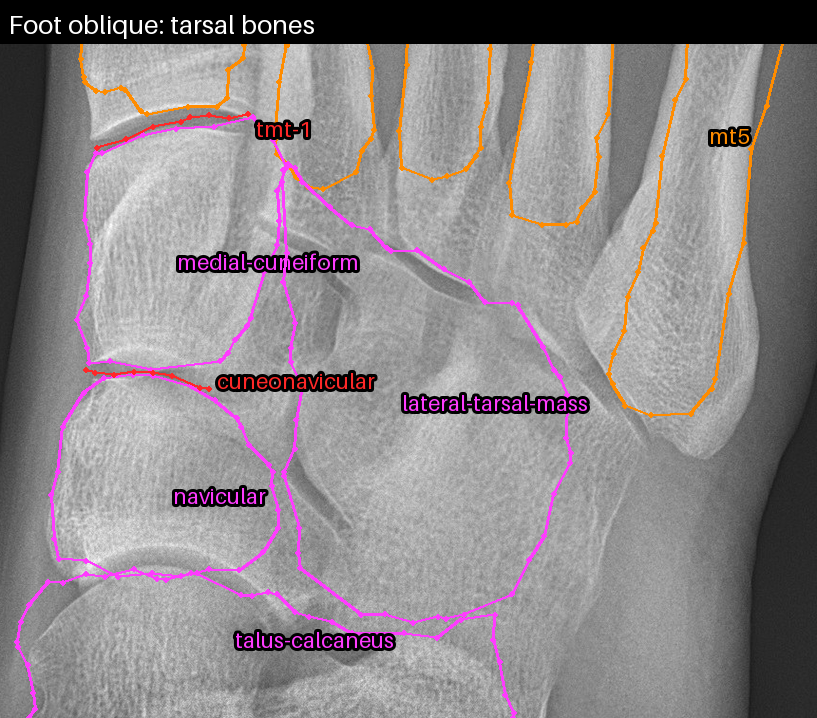
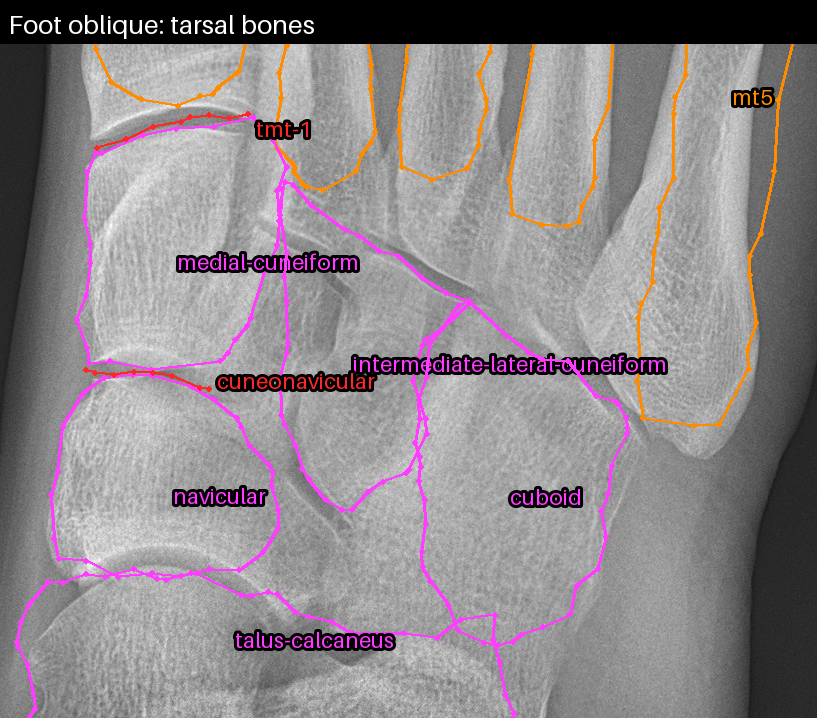
RAD-072 part 2b Phase A: apply owner review corrections (scaphoid, radiocarpal line, soft tissue, cuboid, MTP lines, metatarsal heads)
Claude-Session: https://claude.ai/code/session_0132w4GhgTRoshwqHdXpCECK

diff --git a/scripts/trace-outlines/trace_lib.py b/scripts/trace-outlines/trace_lib.py
@@ -411,7 +411,7 @@ def prior_polygon(s, n=40):
     return [tuple(prior[i]) for i in idx]
 
 
-def trace_path_gap(img, pts, g, step=10):
+def trace_path_gap(img, pts, g, step=10, smooth=0, eps=1.5):
     """Joint line along a curated polyline: on stations every ~`step` px, the darkest point of the profile along the local normal
     (±g px); the median-filtered offsets move the polyline's points. Returns the simplified path."""
     pts = densify(pts, step, False)
@@ -423,8 +423,33 @@ def trace_path_gap(img, pts, g, step=10):
     for p, nv in zip(pts, nrm):
         prof = sample(img, p[0] + rs * nv[0], p[1] + rs * nv[1])
         off.append(rs[int(np.argmin(prof))])
-    off = median_filter_circular(off, 1, closed=False)
-    return ints(rdp(pts + np.array(off)[:, None] * nrm, 1.5))
+    off = median_filter_circular(off, 1 if not smooth else 2, closed=False)
+    off = np.array(off, float)
+    for _ in range(smooth):  # optional extra smoothing of the offsets along the line (ends fixed)
+        if len(off) > 4:
+            off = np.concatenate([off[:1], np.convolve(off, np.ones(3) / 3, mode="same")[1:-1], off[-1:]])
+    return ints(rdp(pts + off[:, None] * nrm, eps))
+
+
+def trace_along(bone, a, b, offset, step=12, smooth=2):
+    """A joint line that follows the EDGE of an already traced bone between the points nearest to `a` and `b` (e.g. the radius's articular
+    surface): the bone's outline points between them, resampled every `step` px, smoothed, moved `offset` px along the normal toward the
+    side with the smaller y (the neighbouring bones). Always smooth and never off the bone edge."""
+    P = np.array(bone, float)
+    i0 = int(np.argmin(np.hypot(*(P - np.array(a, float)).T)))
+    i1 = int(np.argmin(np.hypot(*(P - np.array(b, float)).T)))
+    seg = P[min(i0, i1): max(i0, i1) + 1]
+    pts = densify(seg, step, False)
+    for _ in range(smooth):  # 3-point moving average along the line, ends fixed
+        if len(pts) > 3:
+            inner = (pts[:-2] + pts[1:-1] + pts[2:]) / 3
+            pts = np.vstack([pts[:1], inner, pts[-1:]])
+    tang = np.gradient(pts, axis=0)
+    tang /= np.hypot(*tang.T)[:, None] + 1e-9
+    nrm = np.stack([-tang[:, 1], tang[:, 0]], axis=1)
+    if nrm[:, 1].mean() > 0:
+        nrm = -nrm
+    return ints(rdp(pts + offset * nrm, 1.0))
 
 
 def axis_of(spec):
@@ -445,14 +470,14 @@ def trace_gap(img, p, q, u, g):
     return ints([p + f * (q - p) + r * u for f, r in zip(np.linspace(0, 1, 7), out)])
 
 
-def trace_joint(img, distal, proximal, centre=None, half=None):
+def trace_joint(img, distal, proximal, centre=None, half=None, g=18):
     a1, b1, u1 = axis_of(distal)
     a2, b2, u2 = axis_of(proximal)
     u = (u1 + u2) / np.hypot(*(u1 + u2))
     v = np.array([-u[1], u[0]])
     m = (b1 + a2) / 2 if centre is None else np.array(centre, float)
     w = 0.8 * min(distal["he"], proximal["he"]) if half is None else half
-    return trace_gap(img, m - w * v, m + w * v, -u, 18)
+    return trace_gap(img, m - w * v, m + w * v, -u, g)
 
 
 def otsu(vals, lo, hi, bins=128):
@@ -496,7 +521,7 @@ def bone_guard(shape, outlines, margin):
     return np.asarray(im) > 0
 
 
-def soft_tissue(img, thr, guard, max_runs=1):
+def soft_tissue(img, thr, guard, max_runs=1, smooth=0):
     small = gauss(img, 3.0)[::2, ::2]
     mask = (small > thr) | guard
     # largest 4-connected region (iterative flood fill)
@@ -573,7 +598,28 @@ def soft_tissue(img, thr, guard, max_runs=1):
     runs.sort(key=len, reverse=True)
     # the longest run, then (max_runs > 1: a silhouette cut into several open runs by the image edge) every run at least a fifth as long
     keep = [r for r in runs[:max_runs] if r is runs[0] or len(r) >= 0.2 * len(runs[0])]
-    return [ints(rdp(pts[r], 5.0)) for r in keep]
+    out = []
+    for r in keep:
+        seg = pts[r]
+        for _ in range(smooth):  # optional: 5-point moving average along the outline (ends fixed), removes spikes and small loops
+            if len(seg) > 6:
+                inner = sum(np.roll(seg, k, axis=0) for k in range(-2, 3))[2:-2] / 5
+                seg = np.vstack([seg[:2], inner, seg[-2:]])
+        simp = ints(rdp(seg, 5.0))
+        if smooth:  # drop spikes: an interior point whose two segments enclose less than 50 degrees (repeated until none is left)
+            changed = True
+            while changed and len(simp) > 3:
+                changed = False
+                for i in range(1, len(simp) - 1):
+                    v1 = np.array(simp[i - 1], float) - simp[i]
+                    v2 = np.array(simp[i + 1], float) - simp[i]
+                    n1, n2 = np.hypot(*v1), np.hypot(*v2)
+                    if n1 and n2 and np.degrees(np.arccos(np.clip(v1 @ v2 / (n1 * n2), -1, 1))) < 50:
+                        del simp[i]
+                        changed = True
+                        break
+        out.append(simp)
+    return out
 
 
 # ───────────────────────────────────────────────────── assemble ─────────────────────────────────────────────────────
@@ -596,11 +642,13 @@ def view(kind, img, bones, blobs, joints, lines, cfg):
     jl = {}
     jout = []
     for jid, d, p in joints:
-        jl[jid] = trace_joint(gap, spec[d], spec[p], cfg.get("joint_centre", {}).get((kind, jid)), cfg.get("joint_half", {}).get((kind, jid)))
+        jl[jid] = trace_joint(gap, spec[d], spec[p], cfg.get("joint_centre", {}).get((kind, jid)), cfg.get("joint_half", {}).get((kind, jid)), cfg.get("joint_g", {}).get((kind, jid), 18))
         jout.append({"id": jid, "group": "joints", "closed": False, "follows": spec[d]["follows"], "points": jl[jid]})
     for ln in lines:
+        if "along" in ln:
+            continue  # traced after the bones (it follows a bone's edge)
         if "pts" in ln:
-            jl[ln["id"]] = trace_path_gap(gap, ln["pts"], ln["g"])
+            jl[ln["id"]] = trace_path_gap(gap, ln["pts"], ln["g"], smooth=ln.get("smooth", 0), eps=ln.get("eps", 1.5))
             jout.append({"id": ln["id"], "group": "joints", "closed": False, "follows": ln["follows"], "points": jl[ln["id"]]})
             continue
         u = np.array(ln["dir"], float)
@@ -637,6 +685,11 @@ def view(kind, img, bones, blobs, joints, lines, cfg):
             item["drawn"] = False
             item["note"] = "kept as traced; not drawn (identity not reviewed)"
         out.append({**item, "points": trace_blob(sm, b, limits, clips)})
+    for ln in lines:
+        if "along" in ln:
+            al = ln["along"]
+            jl[ln["id"]] = trace_along(traced[al["bone"]]["points"], al["from"], al["to"], al.get("offset", 3))
+            jout.append({"id": ln["id"], "group": "joints", "closed": False, "follows": ln["follows"], "points": jl[ln["id"]]})
     out += jout
     # prominences derived from the traced outlines
     by = {s["id"]: s for s in out}
@@ -645,7 +698,7 @@ def view(kind, img, bones, blobs, joints, lines, cfg):
     # soft tissue last (it is united with the grown bone outlines), stored first
     bones_px = [st["points"] if st["closed"] else st["points"] + [st["points"][0]]
                 for st in out if st["group"] not in ("joints",) and len(st["points"]) > 2]
-    softs = soft_tissue(img, thr, bone_guard(img.shape, bones_px, SOFT_MARGIN), cfg.get("soft_runs", 1))
+    softs = soft_tissue(img, thr, bone_guard(img.shape, bones_px, SOFT_MARGIN), cfg.get("soft_runs", 1), (lambda s: s.get(kind, 0) if isinstance(s, dict) else s)(cfg.get("soft_smooth", 0)))
     for i, soft in reversed(list(enumerate(softs))):
         out.insert(0, {"id": "soft-tissue" if i == 0 else f"soft-tissue-{i + 1}", "group": "soft", "closed": False, "follows": None,
                        "note": f"Otsu threshold {round(float(thr), 1)} of the smoothed image, united with the bone outlines grown by "

diff --git a/scripts/trace-outlines/trace-foot-outlines.py b/scripts/trace-outlines/trace-foot-outlines.py
@@ -55,11 +55,11 @@ AP_BONES = [
     tube("t5-distal", "phalanges", (842, 462), (878, 548), 34, 26, "toes"),
     tube("t5-middle", "phalanges", (890, 552), (892, 598), 42, 38, "toes"),
     tube("t5-proximal", "phalanges", (895, 615), (880, 820), 52, 34, "toes"),
-    tube("mt1", "metatarsals", (225, 690), (335, 1270), 104, 75, "metatarsal"),
-    tube("mt2", "metatarsals", (450, 650), (498, 1380), 64, 38, "metatarsal"),
-    tube("mt3", "metatarsals", (585, 655), (625, 1410), 58, 37, "metatarsal"),
-    tube("mt4", "metatarsals", (725, 745), (715, 1450), 66, 38, "metatarsal"),
-    tube("mt5", "metatarsals", (880, 905), (805, 1530), 62, 40, "metatarsal", search=6),
+    tube("mt1", "metatarsals", (228, 618), (335, 1290), 102, 75, "metatarsal", search=6),
+    tube("mt2", "metatarsals", (450, 592), (498, 1385), 62, 38, "metatarsal"),
+    tube("mt3", "metatarsals", (585, 622), (625, 1410), 56, 37, "metatarsal"),
+    tube("mt4", "metatarsals", (725, 690), (715, 1450), 62, 38, "metatarsal"),
+    tube("mt5", "metatarsals", (880, 835), (805, 1530), 62, 40, "metatarsal", search=6),
     snap("medial-cuneiform", "tarsals", [(205, 1330), (225, 1305), (300, 1296), (395, 1310), (405, 1380), (398, 1450), (385, 1540), (300, 1553), (230, 1580), (215, 1560), (205, 1480)], "static"),
     snap("intermediate-cuneiform", "tarsals", [(408, 1392), (450, 1398), (500, 1402), (502, 1480), (498, 1560), (488, 1595), (440, 1578), (412, 1550), (406, 1470)], "static"),
     snap("lateral-cuneiform-cuboid", "tarsals", [(505, 1410), (580, 1430), (650, 1462), (705, 1495), (735, 1525), (738, 1600), (736, 1700), (725, 1790), (660, 1812), (580, 1795), (530, 1700), (505, 1560)], "static",
@@ -101,15 +101,17 @@ OB_BONES = [
     tube("t5-distal", "phalanges", (862, 598), (905, 665), 36, 28, "toes"),
     tube("t5-middle", "phalanges", (905, 662), (925, 718), 42, 38, "toes"),
     tube("t5-proximal", "phalanges", (912, 728), (912, 955), 56, 34, "toes"),
-    tube("mt1", "metatarsals", (250, 690), (282, 1305), 102, 74, "metatarsal"),
-    tube("mt2", "metatarsals", (470, 660), (440, 1400), 62, 38, "metatarsal"),
-    tube("mt3", "metatarsals", (615, 720), (555, 1390), 56, 36, "metatarsal"),
-    tube("mt4", "metatarsals", (755, 800), (670, 1440), 62, 36, "metatarsal"),
-    tube("mt5", "metatarsals", (930, 1000), (790, 1640), 74, 45, "metatarsal", search=6),
+    tube("mt1", "metatarsals", (250, 632), (282, 1310), 100, 74, "metatarsal", search=6),
+    tube("mt2", "metatarsals", (470, 646), (440, 1400), 60, 38, "metatarsal"),
+    tube("mt3", "metatarsals", (615, 706), (555, 1390), 54, 36, "metatarsal"),
+    tube("mt4", "metatarsals", (755, 782), (670, 1440), 60, 36, "metatarsal"),
+    tube("mt5", "metatarsals", (925, 962), (815, 1650), 76, 50, "metatarsal", search=8),
     snap("medial-cuneiform", "tarsals", [(195, 1360), (230, 1350), (300, 1340), (365, 1330), (395, 1380), (385, 1450), (370, 1530), (330, 1580), (250, 1598), (190, 1590), (185, 1500), (190, 1420)], "static"),
     snap("navicular", "tarsals", [(158, 1650), (185, 1612), (240, 1600), (300, 1612), (350, 1650), (390, 1700), (395, 1760), (350, 1800), (290, 1810), (220, 1805), (165, 1790), (150, 1720)], "static"),
-    snap("lateral-tarsal-mass", "tarsals", [(405, 1380), (470, 1440), (560, 1480), (640, 1530), (690, 1600), (700, 1680), (680, 1760), (640, 1830), (570, 1860), (480, 1850), (420, 1800), (400, 1700), (410, 1600), (400, 1500)], "static",
-         note="intermediate cuneiform, lateral cuneiform and cuboid overlap in this oblique view: one combined outline"),
+    snap("intermediate-lateral-cuneiform", "tarsals", [(402, 1400), (450, 1440), (520, 1470), (598, 1520), (552, 1565), (541, 1606), (543, 1660), (525, 1700), (470, 1740), (440, 1735), (412, 1700), (398, 1660), (402, 1540), (398, 1460)], "static",
+         note="intermediate and lateral cuneiforms overlap in this oblique view: one combined outline; the proximal end is approximate"),
+    snap("cuboid", "tarsals", [(595, 1525), (640, 1555), (700, 1590), (748, 1625), (758, 1660), (745, 1720), (725, 1790), (700, 1850), (640, 1880), (580, 1870), (548, 1800), (540, 1700), (542, 1640), (540, 1605), (550, 1565), (580, 1535)], "static",
+         note="separated from the cuneiforms by the joint space seen at x about 540-583 for y 1520-1605 (intensity profiles, README); its proximal end is not seen separately from the talus and calcaneus"),
     snap("talus-calcaneus", "tarsals", [(150, 1815), (200, 1808), (300, 1815), (380, 1832), (470, 1872), (560, 1872), (620, 1852), (640, 1959), (130, 1959), (120, 1885)], "static",
          note="talus and calcaneus (hindfoot, mostly outside the image): one combined outline, open at the bottom edge"),
 ]
@@ -129,6 +131,10 @@ OB_LINES = [
     {"id": "cuneonavicular", "pts": [(190, 1595), (250, 1602), (320, 1612)], "g": 8, "follows": "static"},
 ]
 
+# MTP joint spaces of the DP/AP: the search centre at the joint (the midpoint of the seed ends fell inside the metatarsal head), half-length and a narrow axial search
+JOINT_CENTRE = {("ap", "t1-mtp"): (222, 616), ("ap", "t2-mtp"): (440, 584), ("ap", "t3-mtp"): (590, 632), ("ap", "t4-mtp"): (718, 692), ("ap", "t5-mtp"): (885, 826)}
+JOINT_HALF = {("ap", "t1-mtp"): 90, ("ap", "t2-mtp"): 55, ("ap", "t3-mtp"): 55, ("ap", "t4-mtp"): 60, ("ap", "t5-mtp"): 50}
+JOINT_G = {key: 6 for key in JOINT_CENTRE}
 SOFT_TOWARD_BG = {"ap": 0.6, "oblique": 0.85}  # curated: the toes' soft tissue is faint
 BRIGHT_FACTOR = {"ap": 0.6, "oblique": 0.6}
 
@@ -137,7 +143,7 @@ SPEC = {
     "out_review": "docs/review/rad-072-foot",
     "sources": SOURCES,
     "views": {"ap": (AP_BONES, AP_BLOBS, AP_JOINTS, AP_LINES), "oblique": (OB_BONES, OB_BLOBS, OB_JOINTS, OB_LINES)},
-    "cfg": {"soft_toward_bg": SOFT_TOWARD_BG, "bright_factor": BRIGHT_FACTOR, "soft_runs": 3, "soft_open": "the silhouette"},
+    "cfg": {"soft_toward_bg": SOFT_TOWARD_BG, "bright_factor": BRIGHT_FACTOR, "joint_centre": JOINT_CENTRE, "joint_half": JOINT_HALF, "joint_g": JOINT_G, "soft_runs": 3, "soft_open": "the silhouette"},
     "header": {
         "region": "foot",
         "side": "RIGHT (both images are a right foot; a left-foot case mirrors the drawing, never the RTL layout)",

diff --git a/scripts/trace-outlines/trace-wrist-outlines.py b/scripts/trace-outlines/trace-wrist-outlines.py
@@ -44,14 +44,14 @@ PA_BONES = [
     {"id": "hamate", "tracer": "snap", "group": "carpals", "follows": "anchors", "search": 10,
      "poly": [(190, 228), (215, 205), (260, 198), (300, 197), (322, 225), (328, 290), (320, 345), (302, 375), (285, 388), (262, 360), (235, 320), (205, 280), (190, 250)]},
     {"id": "capitate", "tracer": "snap", "group": "carpals", "follows": "anchors", "search": 10,
-     "poly": [(335, 228), (362, 205), (400, 198), (432, 212), (445, 248), (440, 300), (436, 330), (432, 370), (424, 392), (410, 408), (388, 418), (362, 417), (340, 410), (322, 392), (318, 358), (322, 300), (325, 262)]},
+     "poly": [(335, 228), (362, 205), (400, 198), (432, 212), (445, 248), (437, 300), (434, 330), (430, 370), (422, 392), (410, 408), (388, 418), (362, 417), (340, 410), (322, 392), (318, 358), (322, 300), (325, 262)]},
     {"id": "trapezoid", "tracer": "snap", "group": "carpals", "follows": "anchors", "search": 9,
-     "poly": [(447, 225), (470, 213), (505, 211), (525, 216), (535, 258), (545, 300), (530, 322), (500, 332), (470, 322), (450, 292), (443, 255)]},
+     "poly": [(447, 225), (470, 213), (505, 211), (525, 216), (535, 258), (540, 300), (528, 318), (512, 316), (496, 309), (473, 315), (455, 305), (446, 285), (443, 255)]},
     {"id": "trapezium", "tracer": "snap", "group": "carpals", "follows": "anchors", "search": 9,
      "poly": [(525, 216), (560, 226), (600, 236), (626, 257), (632, 287), (632, 312), (616, 336), (586, 346), (552, 342), (540, 302), (533, 260)]},
-    {"id": "scaphoid", "tracer": "snap", "group": "carpals", "follows": "anchors", "search": 9,
-     "poly": [(437, 304), (470, 298), (500, 309), (526, 336), (546, 366), (550, 392), (536, 412), (512, 432), (492, 458), (468, 482), (440, 498), (410, 512), (402, 490), (401, 450), (412, 425), (428, 400), (432, 350)]},
-    {"id": "lunate", "tracer": "snap", "group": "carpals", "follows": "anchors", "search": 9,
+    {"id": "scaphoid", "tracer": "snap", "group": "carpals", "follows": "anchors", "search": 5,
+     "poly": [(446, 345), (456, 329), (473, 319), (496, 313), (513, 322), (530, 340), (544, 364), (547, 386), (539, 401), (525, 424), (507, 453), (490, 476), (464, 493), (427, 507), (410, 512), (402, 490), (403, 459), (413, 430), (429, 410), (439, 386), (445, 366)]},
+    {"id": "lunate", "tracer": "snap", "group": "carpals", "follows": "anchors", "search": 5,
      "poly": [(300, 430), (328, 421), (360, 420), (392, 424), (400, 445), (399, 490), (392, 518), (372, 530), (335, 527), (300, 520), (272, 505), (266, 485), (272, 465), (286, 448)]},
     {"id": "triquetrum-pisiform", "tracer": "snap", "group": "carpals", "follows": "anchors", "search": 9,
      "note": "triquetrum and pisiform superimposed (the pisiform is the denser oval over the ulnar-proximal part); one combined outline",
@@ -64,7 +64,7 @@ PA_BONES = [
 PA_BLOBS = []
 PA_JOINTS = []
 PA_LINES = [
-    {"id": "radiocarpal", "pts": [(322, 538), (380, 528), (440, 508), (500, 480), (550, 450), (580, 425)], "g": 14, "follows": "anchors"},
+    {"id": "radiocarpal", "along": {"bone": "radius", "from": (322, 540), "to": (588, 413), "offset": 3}, "follows": "anchors"},
     {"id": "distal-radioulnar", "pts": [(308, 545), (312, 580), (320, 610)], "g": 8, "follows": "anchors"},
     {"id": "midcarpal", "pts": [(265, 365), (300, 392), (322, 404), (360, 417), (395, 418), (418, 402), (430, 375), (432, 335), (437, 305), (470, 296), (500, 306), (528, 332), (548, 350)], "g": 5, "follows": "anchors"},
     {"id": "carpometacarpal", "pts": [(215, 236), (260, 205), (330, 197), (400, 200), (450, 207), (520, 212), (595, 207)], "g": 10, "follows": "anchors"},
@@ -122,7 +122,7 @@ SPEC = {
     "out_review": "docs/review/rad-072-wrist",
     "sources": SOURCES,
     "views": {"pa": (PA_BONES, PA_BLOBS, PA_JOINTS, PA_LINES), "lateral": (LAT_BONES, LAT_BLOBS, LAT_JOINTS, LAT_LINES)},
-    "cfg": {"soft_toward_bg": SOFT_TOWARD_BG, "bright_factor": BRIGHT_FACTOR, "extras": extras, "soft_runs": 3, "soft_open": "the silhouette"},
+    "cfg": {"soft_toward_bg": SOFT_TOWARD_BG, "bright_factor": BRIGHT_FACTOR, "extras": extras, "soft_runs": 2, "soft_smooth": {"pa": 3, "lateral": 12}, "soft_open": "the silhouette"},
     "header": {
         "region": "wrist",
         "side": "LEFT (both images are a left wrist; a right-wrist case mirrors the drawing, never the RTL layout)",

diff --git a/docs/RAD-072_PART2B_PHASE_A_REPORT_2026-10-23.md b/docs/RAD-072_PART2B_PHASE_A_REPORT_2026-10-23.md
@@ -135,3 +135,74 @@
 ### سؤالا AGENTS عن الصياغة
 - **هل تغيّر الحكم؟** نعم بشرطه المكتوب: كان README التتبع يؤجل تقسيم الشيفرة المشتركة إلى وحدة «حتى تستعمل منطقة ثانية فعلًا»، وقد تحقق الشرط (الرسغ والقدم). حلّ محله وصف للوحدة المشتركة. القاعدة العامة (لا تعميم استباقي) لم تتغير.
 - **هل بقي رابط الدليل الأصلي؟** نعم: README يربط قرار 2a وقرار 2b الجديد، وتقرير 2a المرحلة B §4 (محفّز الرفع) باقٍ بلا تعديل.
+
+<a id="addendum-owner-review"></a>
+## ملحق: تطبيق تصحيحات المالك على المرحلة A (2026-10-23)
+
+قرارات المالك: (1) المثلثي والحمصي يبقيان مخططًا واحدًا في PA؛ (2) مخططات الجانبي المركّبة مقبولة؛ (3) الكتل المركّبة في DP/AP مقبولة، وفي المائل تُحاول فصل المكعبي؛ الكاحل: يُغلق الفحص بلا تغيير؛ فرق عرض الزند بين اليد والرسغ تقرير فقط.
+
+### 1. الانحرافات والميزانية
+- **الهدف:** تطبيق البنود 1–8 وحدها وإعادة التوليد. **الميزانية:** `trace_lib.py` وسكربتا الرسغ والقدم، وملفا JSON للرسغ والقدم، وصور التراكب المتغيرة، والوثائق (هذا الملحق، HANDOFF، project-status، الأصول). لا كود تطبيق ولا بصمات ولا نماذج.
+- **انحراف واحد غير مذكور في قائمة المالك:** أثناء البند 7 تبيّن أن **رؤوس المشطيات** كانت مبتورة (بذور المحور وُضعت عند مركز الرأس لا قمته)، وهو أصل «التعرج» قرب السمسمانيتين. أُصلحت بذور رؤوس المشطيات الخمسة في الإسقاطين. صورتا `ap-metatarsals.png` و`oblique-metatarsals.png` تغيّرتا لذلك (ليستا في قائمة المراجعة القصيرة).
+
+### 2. المنجز والمتروك
+- **المنجز:** البنود 1–8 أدناه. **المتروك:** لا فصل للحمصي؛ لا تغيير في الكاحل؛ لا تعديل لنسبة الزند.
+
+### 3. لكل تصحيح (الملف، البنية، ما حدث، ما يُعاد فحصه)
+
+| # | الملف | البنية | المعالجة |
+|---|---|---|---|
+| 1 | `pa-carpals.png` | الزورقي | أُعيد تتبعه بمضلع جديد ونافذة بحث ±5 px: حدّه الأيسر عند x ≈ 446 (خارج حافة الرأسي) وقطبه القاصي يتجه نحو المنحرف والمنحرف الصغير. حُرّكت حافة الرأسي اليمنى إلى x ≈ 437 والحد السفلي للمنحرف فوق قمة الزورقي. **التداخل المقيس بين الزورقي والرأسي والهلالي والمنحرف والمنحرف الصغير: 0 px²** (لا تراكب حقيقي مُدّعى) |
+| 2 | `pa-carpals.png` | خط الكعبري الرسغي | صار يتبع **حافة السطح المفصلي للكعبرة المتتبعة نفسها** (من الزاوية الزندية إلى الناتئ الإبري) بإزاحة 3 px نحو الرسغ وتنعيم ثلاثي النقاط: خط ناعم بلا تعرج، فوق السطح مباشرة لا أعلى منه |
+| 3 | `pa-all.png` | النسيج الرخو (أعلى اليمين) | أُسقط المقطع الثالث (الحلقات حول الحيز بين الإبهام والسبابة)؛ يبقى مقطعان مفتوحان (يسار ويمين) مع تنعيم 3 مرات؛ فحص «خارج كل عظم» ناجح |
+| 4 | `lateral-all.png` | النسيج الرخو الظهري قرب الرسغ | تنعيم 12 مرة + إزالة النقاط التي تحصر زاوية أقل من 50° (الشوكة كانت ثلاث نقاط عند الحدبة الظهرية للكعبرة) |
+| 5 | `oblique-tarsals.png` | الكتلة الوحشية | **فُصل المكعبي**: مخطط `cuboid` مستقل و`intermediate-lateral-cuneiform` (المسماريان الأوسط والوحشي مركّبان). الدليل أدناه |
+| 6 | `ap-toes.png` | `t1-mtp` و`t2-mtp` | مراكز الحيز المفصلي لمفاصل MTP الخمسة في DP/AP عُيّنت يدويًا عند الحيز الحقيقي (كان المنتصف بين البذرتين داخل رأس المشط) مع بحث محوري ±6 px: `t1-mtp` على الحيز فوق رأس المشط الأول، و`t2-mtp` بلا شكل V |
+| 7 | `ap-all.png` | رأس المشط 1 | بذرة رأس المشط عند قمته (انظر الانحراف) ونافذة بحث ±6: مخطط حافة العظم وحدها بلا خط داخلي قرب السمسمانيتين (المتتبعتان `drawn: false` منفصلتان) |
+| 8 | `oblique-all.png` | المشط 1 والمشط 5 | الحافة الوحشية للمشط 1 ملساء (بذرة القمة ونافذة ±6)؛ المشط 5 يشمل القاعدة والحدبة كاملة (امتد محوره إلى y = 1650 والنافذة ±8) |
+
+**دليل البند 5 (فصل المكعبي):** من المائل نفسه، متوسط شدة الصورة المنعّمة (σ = 2) على شريط ±10 صفوف، نطاق x = 440…700، ويُعدّ حيزًا قعرٌ أعمق من 7 مستويات رمادية عن جاريه ضمن ±25 px:
+
+| الصف y | موضع القعر x | العمق (مستويات رمادية) |
+|---|---|---|
+| 1520 | 583 | 9.4 |
+| 1560 | 550 | 8.4 |
+| 1600 | 540 | 8.9 |
+| 1650 | لا قعر متصل (قعر معزول عند 599) | — |
+| 1700 | لا قعر | — |
+
+قعر ثابت يتحرك من (583, 1520) إلى (540, 1600): هو **الحيز بين المسماري الوحشي والمكعبي** (ويتصل بخط الرسغي المشطي العلوي)، ويؤكده شريط داكن مرئي في الصورة المكبرة. تحته (y ≥ 1650) لا يفصل شيء المكعبي عن العظام الخلفية (الزورقي والكاحلي والعقبي)، فالحد الداني للمكعبي **تقريبي** والمسماريان المركّبان ينتهيان تقريبًا عند y ≈ 1740 (مذكوران في `note` كل منهما). في DP/AP لا حيز مرئي بين المسماري الوحشي والمكعبي فيبقيان مخططًا واحدًا كما قرر المالك.
+
+### 4. التغييرات المشتركة وScale
+- `trace_lib.py`: خيارات جديدة اختيارية (`soft_smooth` مع إزالة الشوك، خط مفصلي `along` يتبع حافة عظم متتبعة، `joint_g` لحجم البحث المحوري، `smooth` لخط المسار). **اليد دون تغيير:** JSON و8 صور بايتًا ببايت بعد التعديل. لا ثابت جديد مقيد بمنطقة؛ تعمل كلها للكتف (2c) كما هي.
+
+### 5. الطبي والتقييم
+- لا تغيير. الفصل في البند 5 قراءة بصرية مدعومة بقياس شدة، لا تصديقًا طبيًا؛ المخططات توضيحية للرسم فقط.
+
+### 6. التحقق
+| الأمر | النتيجة |
+|---|---|
+| `trace-{hand,wrist,foot}-outlines.py --check-overlays` | الثلاثة مطابقة بايتًا ببايت (اليد: 9 ملفات دون تغيير عن main؛ الرسغ 8؛ القدم 11 مع اعتبار صورة الكاحل خارج الفحص) |
+| `traced-outlines.test.ts` و`hand-outlines.test.ts` | 12 ناجحًا (النسيج الرخو خارج كل عظم) |
+| `docs:check` / `status:check` / `git diff --check` | ناجحة (انظر الإيداع) |
+| لم يُشغّل | `npm run check` الكامل والبناء (لا كود تطبيق)؛ qa:golden وqa:characterise (ممنوعان) |
+
+### 7. المفتوح
+- مراجعة المالك القصيرة للصور الست أدناه ثم بدء B. الحد الداني للمكعبي والمسماريين في المائل تقريبي. فرق الزند (§3 أعلاه) تقرير فقط.
+- **الكاحل:** الفحص مغلق (المطابقة مؤكدة من المالك).
+
+### 8. صور المراجعة القصيرة
+افتح كل ملف من PR ← Files changed ← «View file».
+- `docs/review/rad-072-wrist/pa-carpals.png`: الزورقي لا يتجاوز الرأسي ويتجه قطبه القاصي نحو المنحرف؛ خط الكعبري الرسغي ناعم على السطح المفصلي.
+- `docs/review/rad-072-wrist/pa-all.png`: لا حلقات أعلى اليمين؛ مخطط نسيج رخو أملس خارج العظام.
+- `docs/review/rad-072-wrist/lateral-all.png`: لا شوكة في النسيج الرخو الظهري قرب الرسغ.
+- `docs/review/rad-072-foot/oblique-tarsals.png`: المكعبي مفصول (حافته الإنسية على الحيز) وهل حدّه الداني مقبول؛ المسماريان الأوسط والوحشي مركّبان.
+- `docs/review/rad-072-foot/oblique-all.png`: المشط 1 أملس؛ المشط 5 كامل الحدبة.
+- `docs/review/rad-072-foot/ap-toes.png`: `t1-mtp` و`t2-mtp` على الحيز المفصلي.
+- اختياري (تغيّرت بسبب بتر الرؤوس): `ap-metatarsals.png` و`oblique-metatarsals.png`.
+
+**الرد المطلوب:** «موافق» أو ملاحظات بالملف والبنية؛ عند الموافقة تبدأ B.
+
+### سؤالا AGENTS عن الصياغة
+- **هل تغيّر الحكم؟** لا. ملحق على تقرير قائم؛ لم تُعدَّل قاعدة أو قرار.
+- **هل بقي رابط الدليل الأصلي؟** نعم: [قرار 2b](DECISIONS.md#rad072-2b-owner-2026-10-23) والتقرير أعلاه كما هما.

diff --git a/docs/HANDOFF.md b/docs/HANDOFF.md
@@ -1,16 +1,16 @@
-# التسليم الحالي — RAD-072 الجزء 2b (الرسغ ثم القدم): المرحلة A منجزة، تنتظر مراجعة المالك للتراكبات
+# التسليم الحالي — RAD-072 الجزء 2b (الرسغ ثم القدم): المرحلة A منجزة وصُحّحت بعد مراجعة المالك، تنتظر مراجعة قصيرة لست صور
 
 ## نقطة البداية
 اقرأ [AGENTS](../AGENTS.md)، ثم شغّل `npm run docs:context` (مع `-- --pr NUMBER` لـPR المسودة للجزء 2b) و`npm run status:summary -- --id RAD-072`. [project-status](project-status.md) مصدر الحالة الوحيد. استمر في الـcheckout نفسه، بلا worktree أو subagents. PR مسودة فقط؛ لا ready أو merge أو auto-merge، ولا اشتراك أو polling، ولا فتح أو مشاركة معاينة مستضافة.
 
 ## ملخص الحالة
 - **الاتجاه الحالي:** RAD-072 قيد التنفيذ. الجزء 1 (الصدر) مدموج في #113، والجزء 2a (اليد) في #114 ومقبول من المالك (حدّاه البسيطان مقبولان دون إصلاح). **2b = الرسغ (`wrist-pa`، `wrist-lateral`) ثم القدم (`foot-ap`، `foot-oblique`)**؛ الكاحل خرج منه؛ 2c الكتف في جلسة مستقلة، ثم الجزء 3. [القرار](DECISIONS.md#rad072-2b-owner-2026-10-23).
-- **ينتظر المالك:** مراجعة تراكبات المرحلة A وفق [تقرير A §8](RAD-072_PART2B_PHASE_A_REPORT_2026-10-23.md#8-قائمة-المالك-ماذا-تفحص-في-كل-تراكب-وموجّه-الجلسة-التالية)، وثلاثة قرارات: فصل الحمصي عن المثلثي في PA، قبول مخططات الجانبي المركّبة، قبول كتل القدم المركّبة.
+- **ينتظر المالك:** مراجعة قصيرة للصور الست في [ملحق تقرير A §8](RAD-072_PART2B_PHASE_A_REPORT_2026-10-23.md#addendum-owner-review). قرارات المالك: المثلثي والحمصي مركّبان في PA، مخططات الجانبي المركّبة مقبولة، كتل DP/AP المركّبة مقبولة (المكعبي مفصول في المائل)، فحص الكاحل مغلق.
 - **ينتظر مراجِعًا:** لا جديد؛ هوية العظام قراءة بصرية غير مراجعة طبيًا.
 - **مرجع Git:** الفرع والقاعدة وPR عبر docs:context؛ التحقق المُشغّل وغير المُشغّل في [تقرير A §6](RAD-072_PART2B_PHASE_A_REPORT_2026-10-23.md#6-التحقق).
 - **مخاطر معلنة:** لا مفتاح بصمة تغيّر في A. قبول S-STD-2 المسبق (B فقط): مفاتيح `wrist-pa` و`wrist-lateral` و`foot-ap` و`foot-oblique` وحدها؛ أي غيرها = توقف وإبلاغ. المخططات رسم توضيحي، لا قياس.
 
-## المنجز في A
+## المنجز في A (ومعه تصحيحات المالك: سكربتات وJSON وتراكبات مُعاد توليدها، المكعبي في المائل، رؤوس المشطيات كاملة)
 - الأداة: `scripts/trace-outlines/trace_lib.py` مشتركة، وبذور لكل عائلة (`trace-hand-outlines.py` و`trace-wrist-outlines.py` و`trace-foot-outlines.py`). JSON اليد وتراكباته الثمانية مطابقة بايتًا ببايت. `--check` و`--check-overlays`. متتبعا `snap` و`axis-snap` ومسارات مفصلية ومقاطع نسيج رخو متعددة.
 - البيانات: `wrist-outlines.json` و`foot-outlines.json` (ملف الركبة المشترك لم يُلمس) واختبار `traced-outlines.test.ts` (النسيج الرخو خارج كل عظم لكل منظر).
 - التراكبات: `docs/review/rad-072-wrist/` (7) و`rad-072-foot/` (11 مع صورة فحص الكاحل)، مسجلة في الأصول.

diff --git a/docs/project-status.md b/docs/project-status.md
@@ -7,7 +7,7 @@
 ## ملخص الحالة الحالية (سرد قصير، يُحدَّث كله في كل جلسة؛ لا يُقرأ آلياً)
 
 - **الاتجاه الحالي:** RAD-072 قيد التنفيذ: الجزء 1 (الصدر) مدموج في #113؛ الجزء 2a تجربة اليد (رسم من حدود مستخلصة من الصورتين المرجعيتين، [القرار](DECISIONS.md#rad072-2a-hand-owner-2026-10-23)) مدموج في #114 ومقبول من المالك؛ **2b الرسغ ثم القدم** ([القرار](DECISIONS.md#rad072-2b-owner-2026-10-23): الكاحل خرج منه) المرحلة A منجزة على PR مسودة؛ ثم 2c الكتف؛ ثم الجزء 3 (بنود R وصور النتيجة)؛ بعده RAD-069 ثم RAD-062.
-- **ينتظر المالك:** مراجعة تراكبات الرسغ والقدم (2b المرحلة A) وفق [تقرير A §8](RAD-072_PART2B_PHASE_A_REPORT_2026-10-23.md#8-قائمة-المالك-ماذا-تفحص-في-كل-تراكب-وموجّه-الجلسة-التالية)؛ البند 16 من قائمة الصور؛ استئناف Assess بإذن منفصل.
+- **ينتظر المالك:** مراجعة قصيرة لست صور بعد تصحيحات 2b المرحلة A ([الملحق](RAD-072_PART2B_PHASE_A_REPORT_2026-10-23.md#addendum-owner-review))؛ البند 16 من قائمة الصور؛ استئناف Assess بإذن منفصل.
 - **ينتظر مراجِعًا بشريًا:** لا جديد؛ حدود RAD-019 وO108 والمصادر والتراخيص محفوظة في مهامها.
 - **مرجع Git:** `npm run docs:context` للحالة الراهنة؛ قرارات RAD-072 في [الجزء 1](DECISIONS.md#rad072-chest-owner-2026-10-23) و[1b](DECISIONS.md#rad072-1b-owner-2026-10-23) و[2a](DECISIONS.md#rad072-2a-hand-owner-2026-10-23) و[2b](DECISIONS.md#rad072-2b-owner-2026-10-23).
 - **مخاطر معلنة:** القيم provisional داخليًا بلا ادعاء مصادقة سريرية. تغيّرت مفاتيح scene لـhand-pa وhand-lateral وحدها ([القائمة](RAD-072_PART2A_HASHES_2026-10-23.md))؛ نموذج اليد المشترك وصور النتيجة والتوصيف وgolden والتقييم بلا تغيير.
@@ -19,8 +19,8 @@
 {
   "project": "RAD-LAB",
   "format_version": "1.1",
-  "revision": 239,
-  "updated_at": "2026-10-23T22:00:00+00:00",
+  "revision": 240,
+  "updated_at": "2026-10-23T23:00:00+00:00",
   "timezone": "UTC",
   "next_id": "RAD-073",
   "tasks": [

diff --git a/docs/ASSET_PROVENANCE_AND_LICENSES.md b/docs/ASSET_PROVENANCE_AND_LICENSES.md
@@ -927,3 +927,4 @@ Shipped font/notice bytes (SHA-256); font binaries are unmodified. In the IBM no
 | Modification | JSON: outlines traced semi-automatically (polygons / axes read by eye from the same image, moved onto the steepest edge, simplified); no pixels copied. PNGs: the web copy, cropped and downscaled (Lanczos), with coloured traced lines, labels and a title bar drawn over it; the radiograph pixels are otherwise unchanged and carry no identifying text (side marks already removed in A-011, A-013, A-027, A-029, A-033). |
 | Reproduce | `python3 -I scripts/trace-outlines/trace-wrist-outlines.py --overlays` and `trace-foot-outlines.py --overlays` (shared module `trace_lib.py`; Pillow 12.3.0, NumPy 2.5.3); `--check` / `--check-overlays` prove the JSON / PNGs byte-identical. The hand script re-generates its JSON and eight PNGs byte-identically after the module split. The ankle check image is produced by a one-off drawing of the outline data over A-033 (not a committed script) and is not covered by `--check-overlays`. |
 | Limits | Illustrative, drawing-only; **not a measurement**, not a diagnostic image, no clinical validation. Overlapping bones are traced as one named outline (PA triquetrum + pisiform; lateral scaphoid + trapezium and the dorsal carpal mass; foot lateral cuneiform + cuboid, and the oblique lateral tarsal mass; talus + calcaneus). [Owner decision](DECISIONS.md#rad072-2b-owner-2026-10-23); [Phase A report](RAD-072_PART2B_PHASE_A_REPORT_2026-10-23.md). |
+| Owner corrections (2026-10-23) | Same sources, licence and method; wrist and foot outlines and their overlays re-generated after the owner's Phase A review (scaphoid, radiocarpal line, soft tissue, cuboid separated in the oblique, MTP lines, metatarsal heads). Both re-runs byte-identical; hand unchanged. [Addendum](RAD-072_PART2B_PHASE_A_REPORT_2026-10-23.md#addendum-owner-review). |

diff --git a/scripts/trace-outlines/README.md b/scripts/trace-outlines/README.md
@@ -66,6 +66,10 @@ python3 -I scripts/trace-outlines/trace-wrist-outlines.py --check-overlays   # J
 - **axis-snap** (`"tracer": "axis-snap"`, `a`, `b`, `he`, `hs`): the radial tracer's rounded-box prior built from an axis seed, then snapped
   (default `search` = a third of the shaft half-width). Used for phalanges and metatarsals.
 - **joint path** (`lines[].pts`): the darkest point along the local normal of a curated polyline (±`g` px), for curved joint lines.
+- **along line** (`lines[].along = {bone, from, to, offset}`): a joint line that follows the edge of an already traced bone (e.g. the radius's
+  articular surface), smooth by construction. `lines[].smooth` smooths a darkest-point path; `cfg.joint_g` / `joint_centre` / `joint_half`
+  set a joint space's search for the joints the seed ends do not bracket (foot MTP). `cfg.soft_smooth` (per view or one number) smooths the
+  soft-tissue runs and drops spikes (an interior point whose two segments enclose < 50 degrees). All optional: the hand is unchanged.
 - `cfg.soft_runs`: keep up to N soft-tissue runs when the silhouette is cut into several open runs by the image edge (wrist, foot).
 - Where two bones overlap and the image does not separate them the seed names ONE combined outline (`note`), never an invented split.
 
